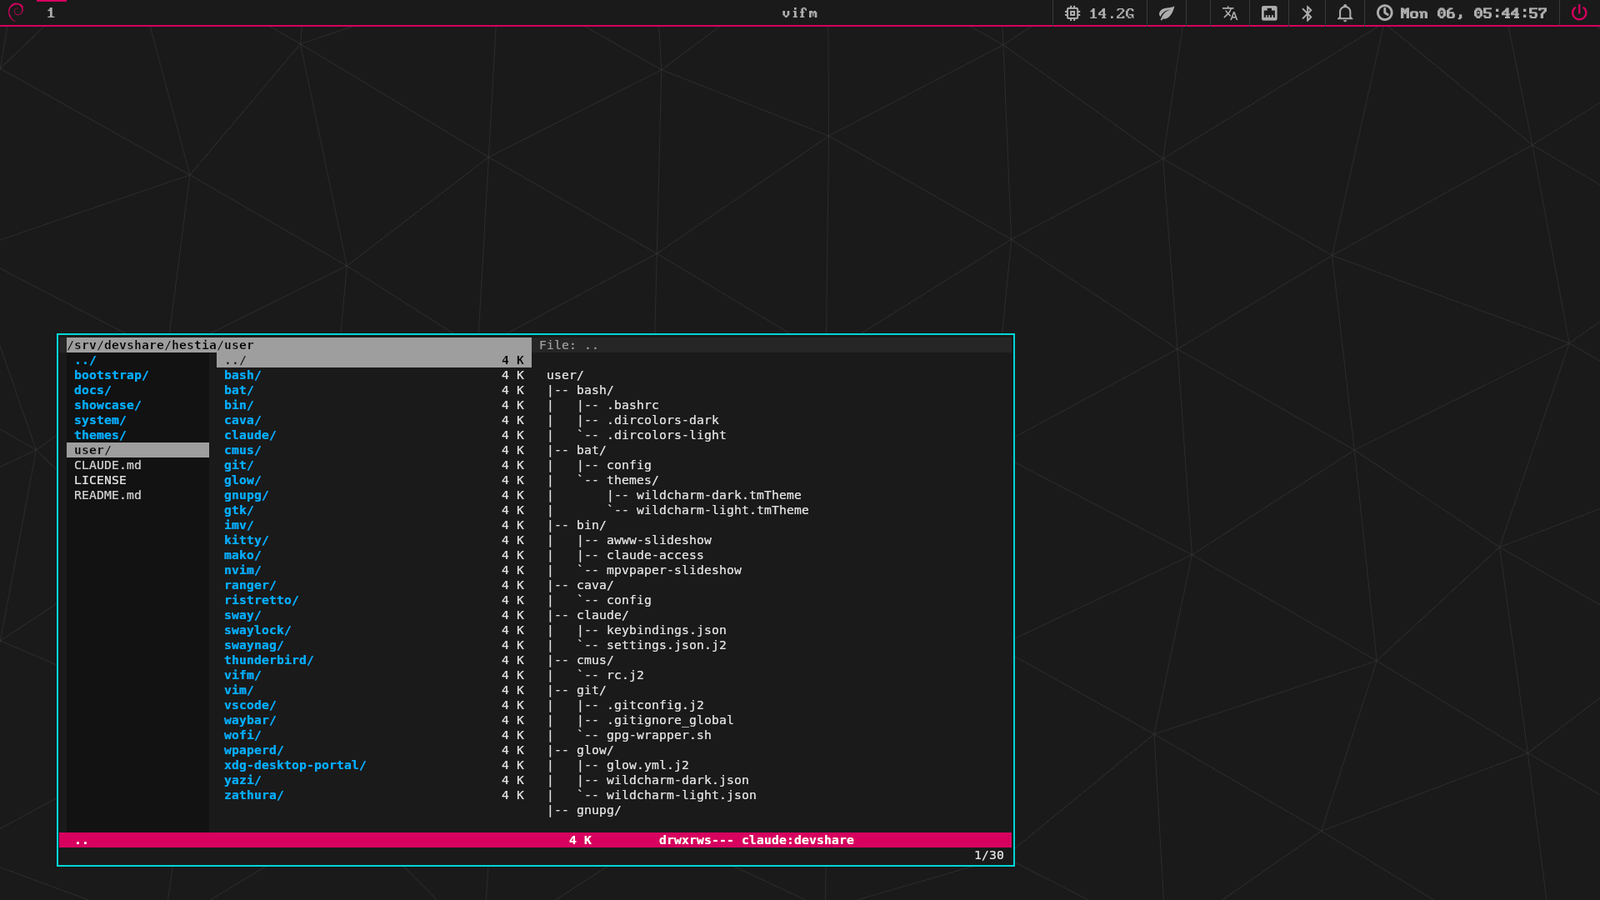
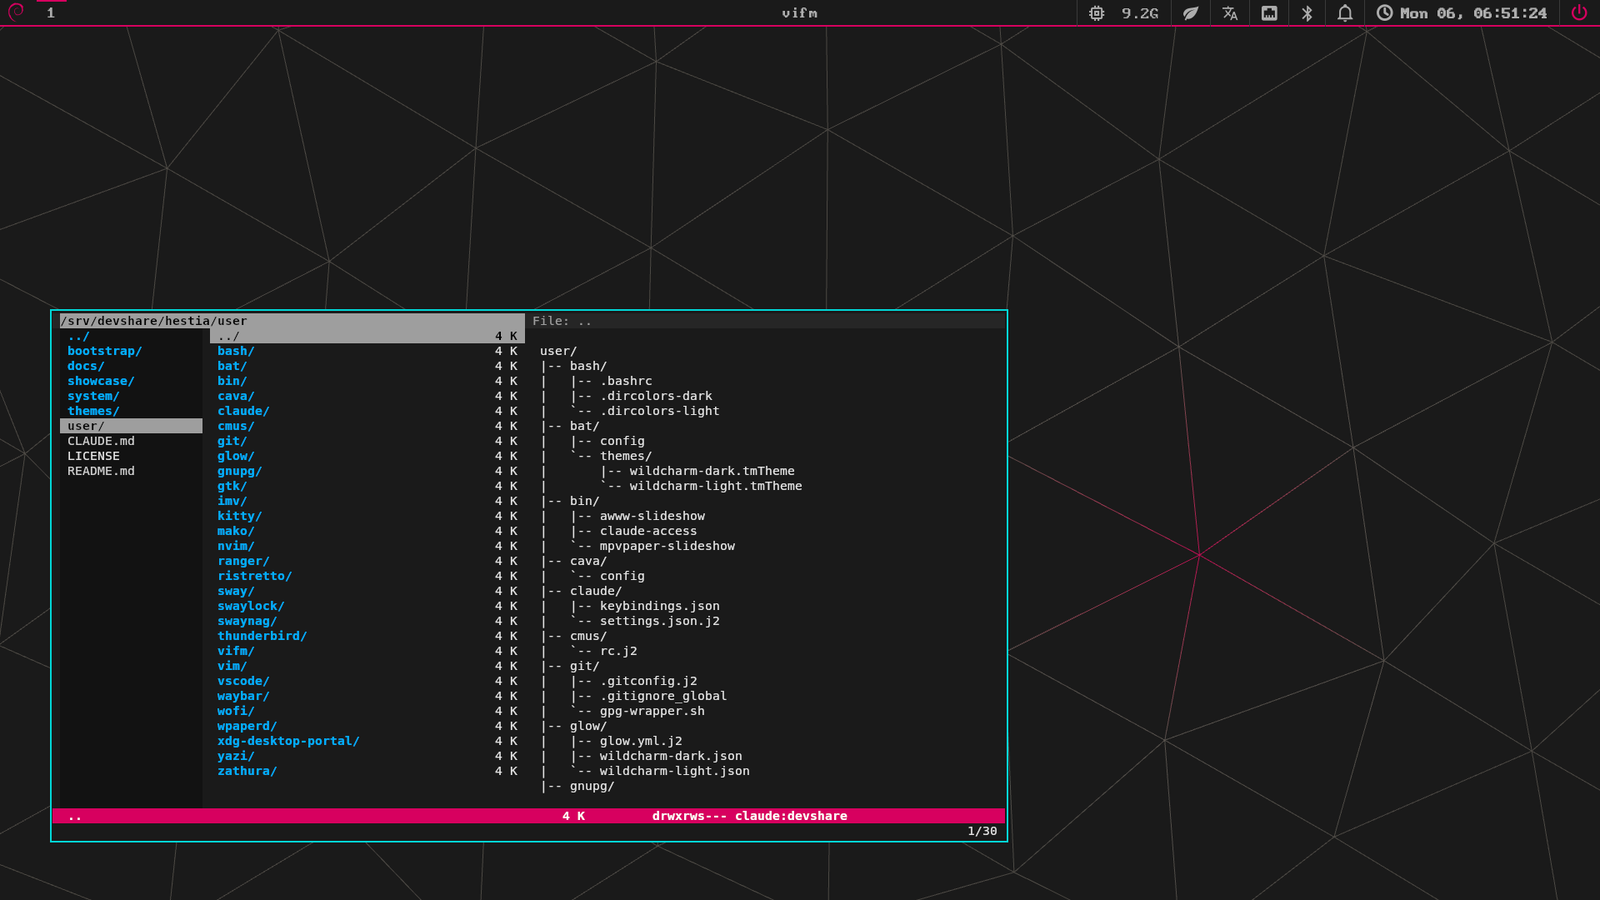
feat(wallpapers): flash-mesh becomes the default flavour
wallpaper_flavour default flips plain-mesh -> flash-mesh (dimitrios's
call after living with it): fresh installs get the accent flashes;
plain-mesh stays the quiet host_vars alternative. wallpaper.sh's
absent-marker fallback stays plain-mesh — pre-flavour installs only
ever downloaded plain assets. CLAUDE.md + the showcase chapter updated
to match.

Also refreshes the showcase hero screenshot on both counts it was
stale: the ground is now flash-mesh mid-flash (the new default, with
the accent pulse visible in frame) and the bar is post-#163 — the
audio widget hides instead of rendering an empty box, and the floating
vifm carries the $focus cyan border.

diff --git a/showcase/wallpapers.md b/showcase/wallpapers.md
@@ -1,6 +1,6 @@
 # Wallpapers: from "no wallpaper story" to a generated mesh
 
-![The hestia desktop — plain-mesh ground, vifm floating, Waybar on top](img/desktop-dark.png)
+![The hestia desktop — flash-mesh ground mid-flash, vifm floating, Waybar on top](img/desktop-dark.png)
 
 Until mid-2026, hestia's desktop background was a solid colour — the theme's
 ground (`#1a1a1a` dark, `#f5f5f5` light), painted by sway's own `output * bg`.
@@ -72,7 +72,7 @@ content and becomes an artifact of the design system: palette-true,
 variant-wired, licensing-clean, reproducible. That takes video. **mpvpaper
 became the default engine because the mesh became the default background.**
 
-## plain-mesh: the default background
+## plain-mesh: the base flavour
 
 ![plain-mesh, dark](img/plain-mesh-dark.png)
 ![plain-mesh, light](img/plain-mesh-light.png)
@@ -97,13 +97,15 @@ reload *respawns* swaybg above the wallpaper layer. That's the trial's
 stacking race, solved by construction. No assets or no mpvpaper? The script
 no-ops and the solid ground stays — nothing breaks on a lean spin.
 
-## flash-mesh: the first flavour
+## flash-mesh: the first flavour — and the default
 
 ![flash-mesh — a node fires and the pulse bleeds down the web](img/flash-mesh-dark.png)
 
 Flavours extend the family as `<flavour>-mesh`: same lattice, new behaviour,
-own release tag, selected per host by one variable. The first is
-**flash-mesh**: every few seconds a node ignites in the accent (`#d7005f`),
+own release tag, selected per host by one variable (`wallpaper_flavour`; the
+quiet plain-mesh remains the no-flash alternative). The first is
+**flash-mesh** — promoted to hestia's default within a day of shipping:
+every few seconds a node ignites in the accent (`#d7005f`),
 fast attack, smooth decay, the pulse bleeding one hop down its web edges at
 reduced strength. Deterministic and loop-periodic like everything else — a
 seeded schedule of events evaluated on wrapped time deltas.

diff --git a/CLAUDE.md b/CLAUDE.md
@@ -152,7 +152,7 @@ A fresh machine is reproduced by an **Ansible** playbook (engine decision: `docs
 - **Repo → distributable spin roadmap.** §5 path generalisation **done**. §6 **done**: role **feature-flags** (`enable_*` toggles) + the **inputs front-end** (`bootstrap/setup.sh`) + **identity-as-inputs** (git name/email/signing key, GPG keygrip, SSH key file → host_vars, rendered into gitconfig + the credential scripts; no personal literals left in the repo) + **package-group gating** (disabled features skip their apt packages). The configurable installer is **complete**. §7 structure migration **done too**, but *revised*: parameterisation (§6) had already absorbed its de-personalisation/defaults jobs, so instead of `users/<name>/` + `defaults/` the app dirs moved into a flat **`user/`** (with `users/claude/` + `defaults/` dropped as YAGNI) — see `docs/repo-structure-design.md` §7. The roadmap is essentially complete; future work is new tool configs / theming, not structural. **Theming system** (`docs/theming.md`): the *lightweight* form is now in place — a palette SSOT (`themes/wildcharm/palette.yml`) + a documented per-app process + status table, applied **by hand** (configs stay direct-edit), themed one app per PR (swaylock was the first). The **automated render** of the palette into configs (`docs/repo-structure-design.md` §9.3) stays **deferred** — `palette.yml` is shaped to feed it if/when built.
 - **File-manager evaluation** (`enable_file_managers`, default off — 2026-07): trialling alternatives *alongside* vifm — **ranger + yazi** (terminal; yazi/ya via the gated localbin entries), **krusader + dolphin** (KDE — should ride the Hestia `kdeglobals` scheme like kdenlive), **thunar + nemo** (GTK3 GUI — pick up hestia/hestia-dark + Yaru-hestia automatically) + **nautilus** (GTK4/libadwaita — dark-only until Debian 14; the live test target for the staged `gtk-4.0/gtk.css` accent). Two verdicts already in: **vifm stays the terminal primary** (the speed comparison with yazi was no contest on this setup — and the miller-columns + tree-preview look the trial inspired is now in vifm itself, see the Vifm section) and **nemo is the intended default GUI manager** (wire `xdg-mime default nemo.desktop inode/directory` when the trial concludes). Theming status: **yazi + ranger DONE** (GENERATED wildcharm pairs — see the theming.md rows; the shared filetype table + the vifm-grey cursor bar carry the identity), **krusader + dolphin** need BOTH the qt_theme ColorSchemePath pre-select AND the Qt platform theme — they don't self-apply schemes like kdenlive, so the `qt_platform` apt group (plasma-integration, gated on either KDE toggle) + start-sway's guarded `QT_QPA_PLATFORMTHEME=kde` export make Qt read kdeglobals (re-login to apply; also themes bare-Qt apps — the deferred qt6ct track resolved), thunar/nemo/nautilus confirmed live. Still open on the PR: where the keepers land. Trim the group then.
 - **Image-viewer evaluation — CONCLUDED** (`enable_image_viewers`, default off — 2026-07, the file-manager process repeated; two verdict rounds): **keeper = ristretto**, alongside the primary **imv** (Wayland-native, the vifm/sway integration). ristretto got the full treatment: layout persisted in `user/ristretto/` (toolbar hidden, thumbnail bar bottom, size-enum max, the variant's ground as the image mat — deployed as templated_configs **copies**, xfconfd kills symlinks; applies at next login or via `xfconf-query`), **h/l** navigation on ristretto's own `<Window>/previous-image|next-image` accel paths (source-verified; space/BackSpace untouched), and the **thumbnail-bar selection recoloured to the accent** via gtk-3.0/gtk.css widget style properties (see the gtk.css comment for the `*`-selector + literal-colour gotchas; pixel-verified). **Dropped**: nsxiv (single-image X11, no grid), viu (half-blocks ≠ ASCII; the vifm in-pane preview experiment reverted — see the Vifm section note), and qimgv (its own theme engine covered the main surfaces but menus/icons stayed stock, and it saves its theme on exit — it clobbered the repo file through the original symlink deploy). The localbin `raw:` flag from the viu round stays (generic).
-- **Wallpaper evaluation — CONCLUDED, verdict shipped** (`enable_wallpapers`, now **default ON** — 2026-07): hestia's default background is **plain-mesh** — stoa's tci ambient web lattice (`CurriculumMap3D.tsx` `WebLattice`) rendered by **`themes/plain-mesh/`** (deterministic frame-stepped headless-chromium harness; motion frequencies snapped to integer cycles of the 120s loop, so the wrap-around frame delta equals a normal one — genuinely seamless; NVIDIA-EGL forced, see the README GPU note) into per-resolution, per-variant **loop videos + static t=0 PNGs**, published as the hestia release **`plain-mesh-v1`** and fetched by the **`wallpapers` role** (both variants × `wallpaper_resolutions`, sha256-pinned, into `~/.local/share/backgrounds/hestia`). Played per-output by **mpvpaper** (the verdict winner — the wrapper work is ours and video is the differentiator) via **`user/sway/wallpaper.sh`**, run as `exec_always` from the generated theme fragment: re-runs on reload, re-asserts per-output best-resolution files (exact match, else largest), and **retires the solid-ground swaybg** (reload respawns it above the wallpaper layer — the stacking is timing-dependent, caught live). Solid ground stays the fallback when assets/mpvpaper are absent. All three tools stay installed (wpaperd = stills alternative with native slideshows; awww = transition play; `awww-slideshow`/`mpvpaper-slideshow` wrappers in user/bin). Flavours: **flash-mesh** shipped 2026-07 (accent flashes firing through the lattice; approved tuning baked in `themes/plain-mesh/mesh-scene.js`, release `flash-mesh-v1`, per-host `wallpaper_flavour` host_var → the role's `default-flavour` marker); the scene is shared verbatim between bake and the `preview/` live tuning page. Future: blast effects etc., same recipe.
+- **Wallpaper evaluation — CONCLUDED, verdict shipped** (`enable_wallpapers`, now **default ON** — 2026-07): hestia's default background is the mesh — stoa's tci ambient web lattice (`CurriculumMap3D.tsx` `WebLattice`) rendered by **`themes/plain-mesh/`** (deterministic frame-stepped headless-chromium harness; motion frequencies snapped to integer cycles of the 120s loop, so the wrap-around frame delta equals a normal one — genuinely seamless; NVIDIA-EGL forced, see the README GPU note) into per-resolution, per-variant **loop videos + static t=0 PNGs**, published as the hestia release **`plain-mesh-v1`** and fetched by the **`wallpapers` role** (both variants × `wallpaper_resolutions`, sha256-pinned, into `~/.local/share/backgrounds/hestia`). Played per-output by **mpvpaper** (the verdict winner — the wrapper work is ours and video is the differentiator) via **`user/sway/wallpaper.sh`**, run as `exec_always` from the generated theme fragment: re-runs on reload, re-asserts per-output best-resolution files (exact match, else largest), and **retires the solid-ground swaybg** (reload respawns it above the wallpaper layer — the stacking is timing-dependent, caught live). Solid ground stays the fallback when assets/mpvpaper are absent. All three tools stay installed (wpaperd = stills alternative with native slideshows; awww = transition play; `awww-slideshow`/`mpvpaper-slideshow` wrappers in user/bin). Flavours: **flash-mesh** shipped 2026-07 and is the **default flavour** (accent flashes firing through the lattice; approved tuning baked in `themes/plain-mesh/mesh-scene.js`, release `flash-mesh-v1`; `wallpaper_flavour` — host_vars-overridable, `plain-mesh` = the quiet alternative — → the role's `default-flavour` marker); the scene is shared verbatim between bake and the `preview/` live tuning page. Future: blast effects etc., same recipe.
 - **Version-control systemd user services.** Other user services worth reproducing on a fresh install live only in `~/.config/systemd/user/` and aren't tracked here yet. Bring them into the repo under a `systemd/` dir, symlinked into `~/.config/systemd/user/`, and add them to the bootstrap manifest (`bootstrap/group_vars/all.yml` → `dotfile_links`; the Active symlinks table regenerates from it). (`ssh-agent` is **not** one of these — it uses Debian's shipped socket-activated unit, nothing custom; see the Bash section.)
 
 ## Tool configurations